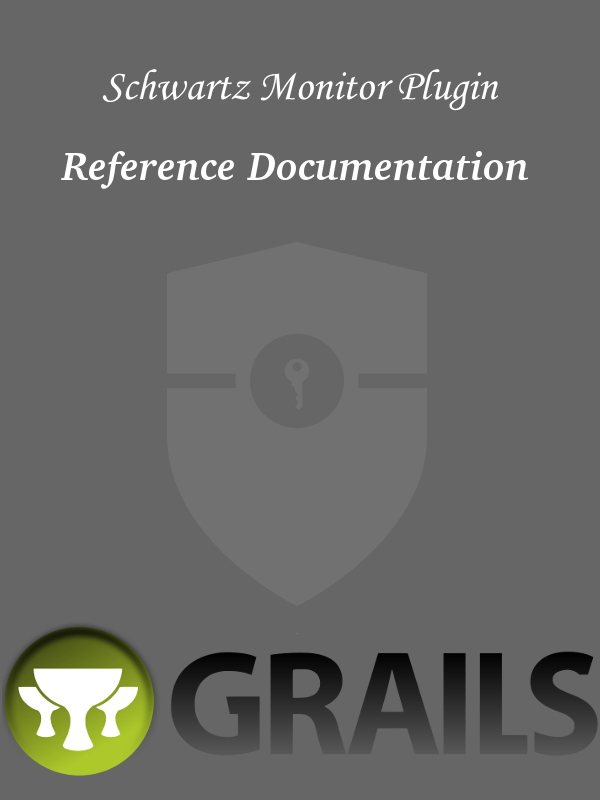
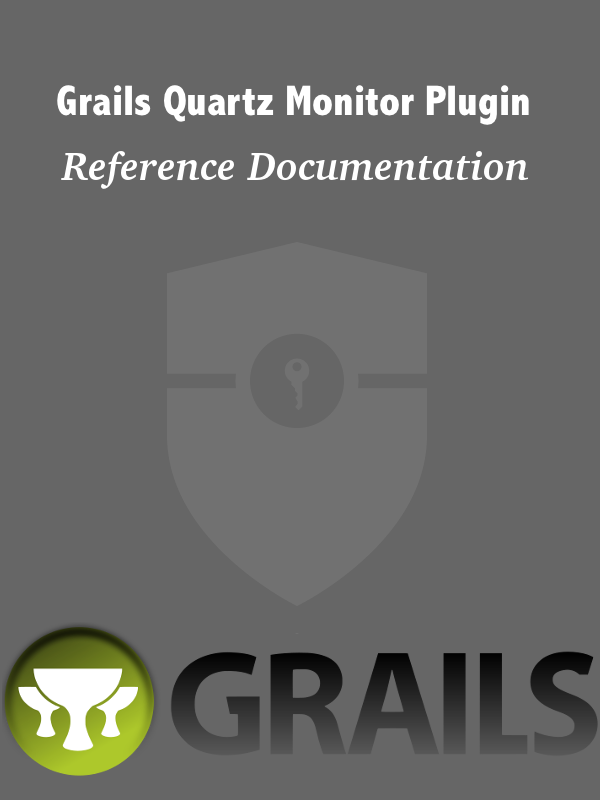
Backport plugin to quartz-monitor

Changed region(s): [[0.09, 0.0938, 0.9, 0.1562]]

diff --git a/grails-app/assets/stylesheets/quartz-monitor.css b/grails-app/assets/stylesheets/quartz-monitor.css
@@ -1,0 +1,3 @@
+/*
+*= require quartz-monitor-main
+*/

diff --git a/grails-app/assets/javascripts/quartz-monitor.js b/grails-app/assets/javascripts/quartz-monitor.js
@@ -1,0 +1,1 @@
+//=require quartz-monitor-main

diff --git a/README.md b/README.md
@@ -1,9 +1,9 @@
-# Schwartz Monitor Plugin for Grails
+# Quartz Monitor Plugin for Grails
 
-This plugin is a fork of the [quartz-monitor](https://grails.org/plugin/quartz-monitor) plugin and supports
-the Grails [Quartz](https://plugins.grails.org/plugin/quartz) and Grails [Schwartz](https://plugins.grails.org/plugin/schwartz) plugins.
+This Grails plugin allows you to monitor and control Quartz jobs. 
+It supports the Grails [Quartz](https://plugins.grails.org/plugin/quartz) and Grails [Schwartz](https://plugins.grails.org/plugin/schwartz) plugins.
 
-It allows you to view and administer all your Quartz job services in the web-ui.
+It allows you to view and administer all your Quartz jobs in the web-ui.
 
 ## Prerequisites
 
@@ -20,10 +20,9 @@ http://localhost:8080/yourapp/quartz and you will find a list of all the Quartz 
 ```groovy
 dependencies {
    ...
-   compile "org.grails.plugins:schwartz-monitor:2.0-SNAPSHOT"
+   compile quartz
 }
 ```
-
 
 ## Enhanced Experience
 
@@ -52,9 +51,6 @@ Will add javascript to the page in order to show a clock with the current time, 
 
 ## Internals
 
-Compared to the quartz-monitor plugin, this plugin is agnostic to the used quartz plugin, as it relies on Quartz itself and does not extend
-any quartz-plugin factories.
-Its implemented to register a org.quartz.JobListener, which listens to all Job tasks. 
+This plugin is agnostic to the used Grails quartz plugin, as it relies on Quartz itself and does not extend any quartz-plugin factories.
+It registers a org.quartz.JobListener, which listens to all Job tasks. 
 This listener updates Job metrics in the QuartzMonitorService, which also provides additional figures like the startTime of a Job.
-
-[![Build Status](https://travis-ci.org/robertoschwald/grails-schwartz-monitor.svg?branch=master)](http://travis-ci.org/robertoschwald/grails-schwartz-monitor)

diff --git a/changes.md b/changes.md
@@ -1,4 +1,4 @@
-#Making changes to Schwartz Monitor
+# Making changes to Quartz Monitor
 
 * Increment version number in build.gradle and add -SNAPSHOT (whilst working on it)
 * Make changes
